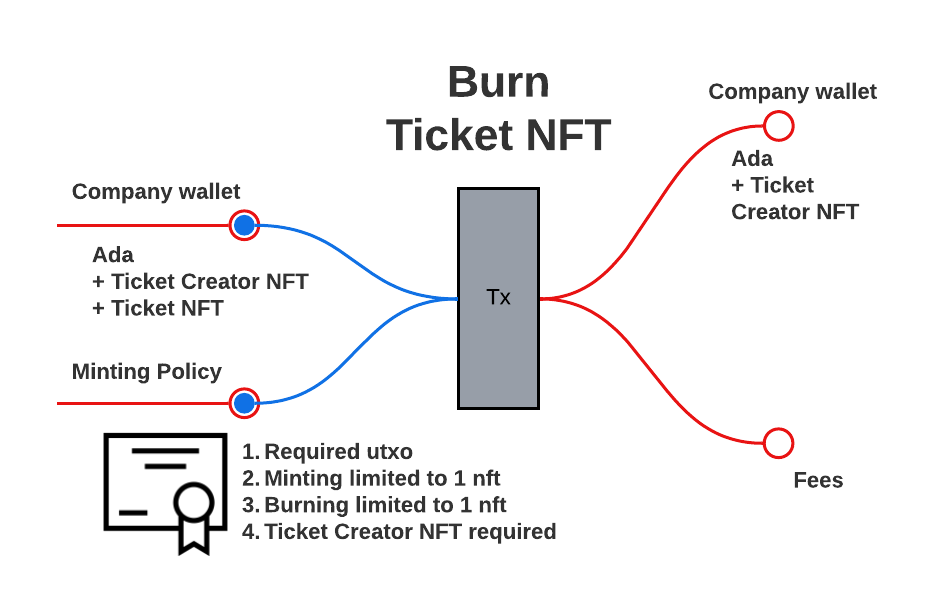
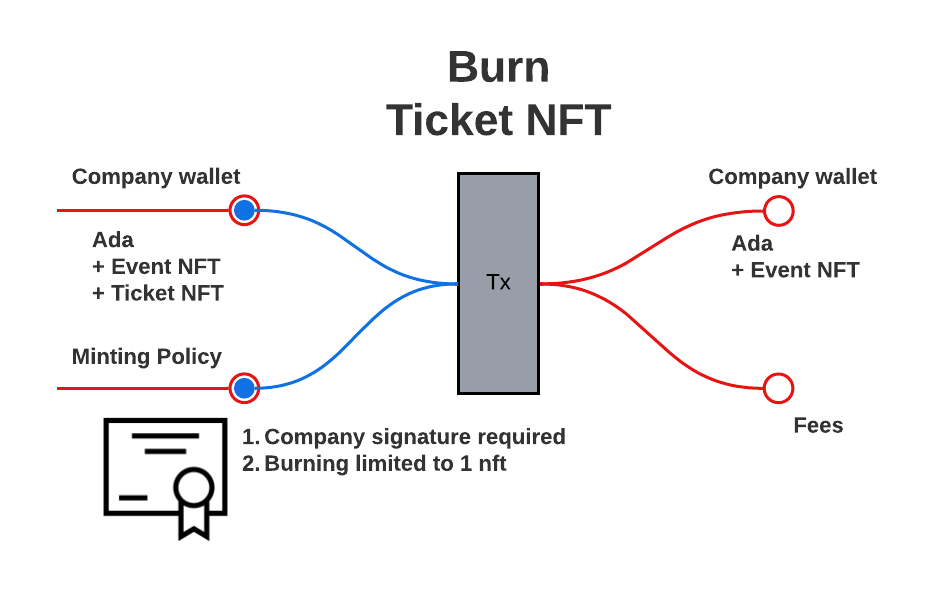
Update README and diagrams

diff --git a/README.md b/README.md
@@ -9,12 +9,9 @@ The company [mint](#mint-event-nft)s an event NFT.
 
 The event NFT allows the holder to mint tickets for a particular event. 
 
-Once a ticket is [mint](#mint-ticket-nft)ed, the ticket is sent to a vesting script address. To [purchase](#purchase-ticket-nft-from-script-address) a ticket NFT, the following conditions must be met: 
-1. the transaction must include a user token, 
-2. the ticket sale date is in the past, and 
-3. the ticket price must be paid to the company
+Once a ticket is [mint](#mint-ticket-nft)ed, the ticket is sent to a vesting script address. Tickets can only be [purchase](#purchase-ticket-nft-from-script-address)d by user token holders.
 
-A user token is [mint](#mint-user-token)ed upon user account creation. The user token is required to purchase tickets. 
+A user token is [mint](#mint-user-token)ed upon user account creation. 
 
 ---
 
@@ -68,7 +65,7 @@ script: scripts/user/burn.sh
 params:
   USER=$1            # who's paying for tx?
   PAYMENT_UTXO=$2    # how are they paying?
-  NFT_UTXO=$3        # utxo to consume (contains NFT)
+  NFT_UTXO=$3        # utxo to consume (contains user token)
   COLLATERAL=$4      # collateral utxo
 ```
 
@@ -98,7 +95,7 @@ Notes:
 
 > **startTime**: event start time
 
-> **pkh**: pubKeyHash required to mint/burn the event NFT, in this case...the company's pubKeyHash
+> **pkh**: company's pubKeyHash is required to mint/burn the event NFT
 
 > **oref**: utxo to consume
 
@@ -109,14 +106,14 @@ root@cd18371d4d13:/workspace/code/DecentralizedTix# cabal repl
 Prelude Main>:l TicketCreatorNFT
 Prelude TicketCreatorNFT>:set -XOverloadedStrings
 Prelude TicketCreatorNFT>import Plutus.V2.Ledger.Api
[2 lines of base64/hex data omitted]
 ```
 #### Mint event NFT
 ![Mint event NFT diagram](docs/resources/event/mint-nft.png)
 
 ##### API
 ```
-script: scripts/script: scripts/event/mint.sh
+script: scripts/event/mint.sh
 params: 
   USER=$1            # who's paying for tx?
   PAYMENT_UTXO=$2    # how are they paying?
@@ -144,7 +141,7 @@ script: scripts/event/burn.sh
 params:
   USER=$1            # who's paying for tx?
   PAYMENT_UTXO=$2    # how are they paying?
-  NFT_UTXO=$3        # utxo to consume (contains NFT)
+  NFT_UTXO=$3        # utxo to consume (contains event NFT)
   COLLATERAL=$4      # collateral utxo
   MINT_UTXO=$5       # utxo used in event minting process
   ARTIST=$6          # artist
@@ -170,11 +167,13 @@ root@cd18371d4d13:scripts/event/burn.sh \
 #### Generate ticket NFT Plutus file
 
 ```haskell
---               ac            oref       tn
-saveNFTPolicy :: AssetClass -> TxOutRef -> TokenName -> IO ()
+--               seat       ac            oref        tn
+saveNFTPolicy :: Integer -> AssetClass -> TxOutRef -> TokenName -> IO ()
 ```
 
 Notes:
+
+> **seat**: seat number
 
 > **ac**: asset class permitted to mint ticket NFT
 > - event NFT asset class
@@ -182,13 +181,13 @@ Notes:
 > **oref**: utxo to consume
 
 > **tn**: ticket token name
-
 ```
 root@cd18371d4d13:/workspace/code/DecentralizedTix# cabal repl
-Prelude Main>:l TicketNFT
-Prelude TicketNFT>:set -XOverloadedStrings
-Prelude TicketNFT>import Plutus.V2.Ledger.Api
[1 lines of base64/hex data omitted]
+Prelude Main> :l TicketNFT
+Prelude TicketNFT> :set -XOverloadedStrings
+Prelude TicketNFT> import Plutus.V1.Ledger.Value 
+Prelude Plutus.V1.Ledger.Value TicketNFT> import Plutus.V2.Ledger.Api
[1 lines of base64/hex data omitted]
 ```
 #### Mint ticket NFT
 ![Mint ticket NFT diagram](docs/resources/ticket/mint-nft.png)
@@ -197,23 +196,27 @@ Prelude TicketNFT>saveNFTPolicy (assetClass "47bfc748891f37b9d47cdbb8ff0ddf73df7
 ```
 script: scripts/ticket/mint.sh
 params: 
-  USER=$1            # who's paying for tx?
-  PAYMENT_UTXO=$2    # how are they paying?
-  COLLATERAL=$3      # collateral utxo
-  EVENT_NFT_UTXO=$4     # utxo to consume (contains event NFT)
+  USER=$1               # who's paying for tx?
+  PAYMENT_UTXO=$2       # how are they paying?
+  COLLATERAL=$3         # collateral utxo
+  EVENT_NFT_UTXO=$4     # utxo containing event NFT
   EVENT_MINT_UTXO=$5    # utxo used in event minting process
-  DEADLINE=$6        # date ticket is available for purchase
+  ARTIST=$6             # artist
+  START_TIME=$7         # start time
+  SEAT=$8               # seat number
 ```
 
 ##### Example
 ```
 root@cd18371d4d13:scripts/ticket/mint.sh \
->   company \
->   dba94941278a873efd7ea4ed3855e5a21118050923e011917d71e64ddc8bdaa2#0 \
->   f8d4d6b984a1b348bbb198b6a25eceeded9b516fc50b676b7912c5582ba73534#0 \
->   c617dc89b02c07eb5fe8c76405094ed98dbea9969938fe7085992fcb0a025108#1 \
->   2712f66819ac7f52683ee7e97e6878263dfaa42c85dde8ed23097ce461d5ab85#0 \
->   1681245690
+>   decentralized-tix \
+>   b2cff6052079401029b0dfe222944de2c713f7935e7d041ee056b66a2e4891f2#2 \
+>   b005e6b2af2ca57ae5a7ea74cbc96c8e9986100a45e92fe77a82f5f0c008a51e#1 \
+>   b2cff6052079401029b0dfe222944de2c713f7935e7d041ee056b66a2e4891f2#1 \
+>   2a6cdaeccfb529959858048efb0f7230beda3a928d929112f2baf5a59b89e6d8#1 \
+>   "Taylor Swift" \
+>   1683453600000 \
+>   1
 ```
 #### Burn ticket NFT
 ![Burn ticket NFT diagram](docs/resources/ticket/burn-nft.png)
@@ -222,23 +225,31 @@ root@cd18371d4d13:scripts/ticket/mint.sh \
 ```
 script: scripts/ticket/burn.sh
 params: 
-  USER=$1            # who's paying for tx?
-  PAYMENT_UTXO=$2    # how are they paying?
-  COLLATERAL=$3      # collateral utxo
-  EVENT_NFT_UTXO=$4     # utxo to consume (contains event NFT)
-  EVENT_MINT_UTXO=$5    # utxo used in event minting process
-  DEADLINE=$6        # date ticket is available for purchase
+  USER=$1               # who's paying for tx?
+  PAYMENT_UTXO=$2       # how are they paying?
+  NFT_UTXO=$3           # utxo to consume (contains ticket NFT)
+  COLLATERAL=$4         # collateral utxo
+  EVENT_NFT_UTXO=$5     # utxo to consume (contains event NFT)
+  TICKET_MINT_UTXO=$6   # utxo used in ticket minting process
+  EVENT_MINT_UTXO=$7    # utxo used in event minting process
+  ARTIST=$8             # artist
+  START_TIME=$9         # start time
+  SEAT=${10}            # seat number
 ```
 
 ##### Example
 ```
 root@cd18371d4d13:scripts/ticket/burn.sh \
->   user2 \
->   10dc49f05c02027d346ee7e00c35888f1d89b8d9632a39f6d5ab896576576e0b#2 \
->   10dc49f05c02027d346ee7e00c35888f1d89b8d9632a39f6d5ab896576576e0b#1 \
->   e9c729d97cdbaafd0b410ad6078f6facb3dd93a7a74a3c5e3f1edcc5570acc4b#1 \
->   c175e76b6f15b0c2e2df10d420ebb1a326bc324638b2f8ef01c381284cb44dff#0 \
->   2712f66819ac7f52683ee7e97e6878263dfaa42c85dde8ed23097ce461d5ab85#0
+>   decentralized-tix \
+>   faddbde4c43690fa04967b38e80de0e57ccf7e54f580470da299177a1cde4efa#2 \
+>   faddbde4c43690fa04967b38e80de0e57ccf7e54f580470da299177a1cde4efa#0 \
+>   b005e6b2af2ca57ae5a7ea74cbc96c8e9986100a45e92fe77a82f5f0c008a51e#1 \
+>   faddbde4c43690fa04967b38e80de0e57ccf7e54f580470da299177a1cde4efa#1 \
+>   a7c8ff8bcd808cf6ccbd90ab0ccb3ede9edc11dc1928fa719908f7a4bbb7e928#1 \
+>   2a6cdaeccfb529959858048efb0f7230beda3a928d929112f2baf5a59b89e6d8#1 \
+>   "Taylor Swift" \
+>   1683453600000 \
+>   1
 ```
 
 ---
@@ -249,33 +260,20 @@ root@cd18371d4d13:scripts/ticket/burn.sh \
 
 ##### Generate vesting Plutus file
 ```haskell
---         ac            params
-saveVal :: AssetClass -> VestingParams -> IO ()
+--         ac
+saveVal :: AssetClass -> IO ()
 ```
 
 Notes:
 
 > **ac**: asset class required to purchase ticket NFT,
 > - user token asset class
-
-```haskell
-data VestingParams = VestingParams
-  { beneficiary :: PubKeyHash
-  , deadline    :: POSIXTime
-  }
-```
-
-> **beneficiary**: the beneficiary's pubKeyHash
-> - company pubKeyHash
-
-> **deadline**: the posix time when the ticket becomes available
-
 ```
 root@cd18371d4d13:/workspace/code/DecentralizedTix# cabal repl
-Prelude Main>:l Vesting
-Prelude Vesting>:set -XOverloadedStrings
-Prelude Vesting>import Plutus.V2.Ledger.Api
-Prelude Vesting>saveVal (assetClass "170e169de9dc68629af74abdec8cb391377ff7a8034ff23ac5f6793d" "User") (VestingParams "a71860d5e0b35967e9218a49d227cc460a1ee5b2d86f7d6cfb051ba9" 1681245690)
+Prelude Main>:l ParameterizedVesting
+Prelude ParameterizedVesting>:set -XOverloadedStrings
+Prelude ParameterizedVesting>import Plutus.V2.Ledger.Api
+Prelude ParameterizedVesting>saveVal (assetClass "170e169de9dc68629af74abdec8cb391377ff7a8034ff23ac5f6793d" "User")
 ```
 
 ##### Purchase ticket NFT from script address
@@ -285,25 +283,35 @@ Prelude Vesting>saveVal (assetClass "170e169de9dc68629af74abdec8cb391377ff7a8034
 ```
 script: scripts/vesting/purchase.sh
 params:
-  USER=$1            # who's paying for tx?
-  PAYMENT_UTXO=$2    # how are they paying?
-  TICKET_NFT_UTXO    # utxo used in ticket minting process
-  EVENT_MINT_UTXO=$4    # utxo used in event minting process
-  DEADLINE=$5        # date ticket is available for purchase
+  USER=$1               # who's paying for tx?
+  PAYMENT_UTXO=$2       # how are they paying?
+  VESTED_UTXO=$3        # utxo containing ticket NFT
+  USER_TOKEN_UTXO=$4    # utxo containing user token
+  COLLATERAL=$5         # collateral utxo
+  SLOT=$6               # current slot
+  TICKET_MINT_UTXO=$7   # utxo used in ticket minting process
+  EVENT_NFT_UTXO=$8     # utxo containing event NFT
+  EVENT_MINT_UTXO=$9    # utxo used in event minting process
+  ARTIST=${10}          # artist
+  START_TIME=${11}      # start time
+  SEAT=${12}            # seat number
 ```
 
 ###### Example
 ```
 root@cd18371d4d13:scripts/vesting/purchase.sh \ 
->   user2 \
->   eeafcf73fedc680df20f3e896ae48b380539d7da297e52f0eb8c9f3beca4ee73#1 \
->   eeafcf73fedc680df20f3e896ae48b380539d7da297e52f0eb8c9f3beca4ee73#0 \
->   b1059558a3afacd1befc22dd8ab855d4b974fdccab916f07cd375a7147877642#1 \
->   e9c729d97cdbaafd0b410ad6078f6facb3dd93a7a74a3c5e3f1edcc5570acc4b#1 \
+>   user3 \
+>   c42cd4d69e9322628bcb52ba63d1ba1c03e04e61b1e7728278ec82e3e73e1286#1 \
+>   c42cd4d69e9322628bcb52ba63d1ba1c03e04e61b1e7728278ec82e3e73e1286#0 \
+>   566c4c9746e6fbb221f48632e010c0ab6aa5a39e320ce9493df54a8dbf4bb087#1 \
+>   a1680b604dd117569626c60a3fcd8842a736777bc1da820088b0d87012106198#1 \
 >   14679465 \
->   dba94941278a873efd7ea4ed3855e5a21118050923e011917d71e64ddc8bdaa2#0 \
->   2712f66819ac7f52683ee7e97e6878263dfaa42c85dde8ed23097ce461d5ab85#0 \
->   1681245690
+>   b2cff6052079401029b0dfe222944de2c713f7935e7d041ee056b66a2e4891f2#2 \
+>   c18a7b9d8ebffcafb744791799dd1cf6a83c6635d0e2136efa70c83aef14cca1#1 \
+>   2a6cdaeccfb529959858048efb0f7230beda3a928d929112f2baf5a59b89e6d8#1 \
+>   "Taylor Swift" \
+>   1683453600000 \
+>   1
 ```
 
 ##### Send ticket NFT to script address
@@ -314,23 +322,27 @@ Utility function: moves the ticket NFT from user wallet to script address.
 ```
 script: scripts/vesting/give.sh
 params:
-  USER=$1              # who's paying for tx?
-  PAYMENT_UTXO=$2      # how are they paying?
-  TICKET_NFT_UTXO=$3   # utxo to consume (contains user token)
-  EVENT_NFT_UTXO=$4    # utxo used in ticket minting process
-  EVENT_MINT_UTXO=$5   # utxo used in event minting process
-  DEADLINE=$6          # date ticket is available for purchase
+  USER=$1               # who's paying for tx?
+  PAYMENT_UTXO=$2       # how are they paying?
+  TICKET_NFT_UTXO=$3    # utxo containing user token
+  EVENT_NFT_UTXO=$4     # utxo containing event NFT
+  EVENT_MINT_UTXO=$5    # utxo used in event minting process
+  ARTIST=$6             # artist
+  START_TIME=$7         # start time
+  SEAT=$8               # seat number
 ```
 
 ###### Example
 ```
 root@cd18371d4d13:scripts/vesting/give.sh \  
->   user2 \
->   0c22bd4c5784398c07f74aeb92f0a4a34788a9e090d96686c20166c11c4cee90#3 \
->   0c22bd4c5784398c07f74aeb92f0a4a34788a9e090d96686c20166c11c4cee90#2 \
->   dba94941278a873efd7ea4ed3855e5a21118050923e011917d71e64ddc8bdaa2#0 \
->   2712f66819ac7f52683ee7e97e6878263dfaa42c85dde8ed23097ce461d5ab85#0 \
->   1681245690
+>   user3 \
+>   b529d5c5ecaf5bef43167d9d752e1003c93adcbddfdbfbb5679c98cf5fe2c578#1 \
+>   b11def2be91eb1e34c8ff6745245cf77be4036c3d349b01908a15c2d07134586#2 \
+>   b2cff6052079401029b0dfe222944de2c713f7935e7d041ee056b66a2e4891f2#2 \
+>   2a6cdaeccfb529959858048efb0f7230beda3a928d929112f2baf5a59b89e6d8#1 \
+>   "Taylor Swift" \
+>   1683453600000 \
+>   1
 ```
 
 ---
